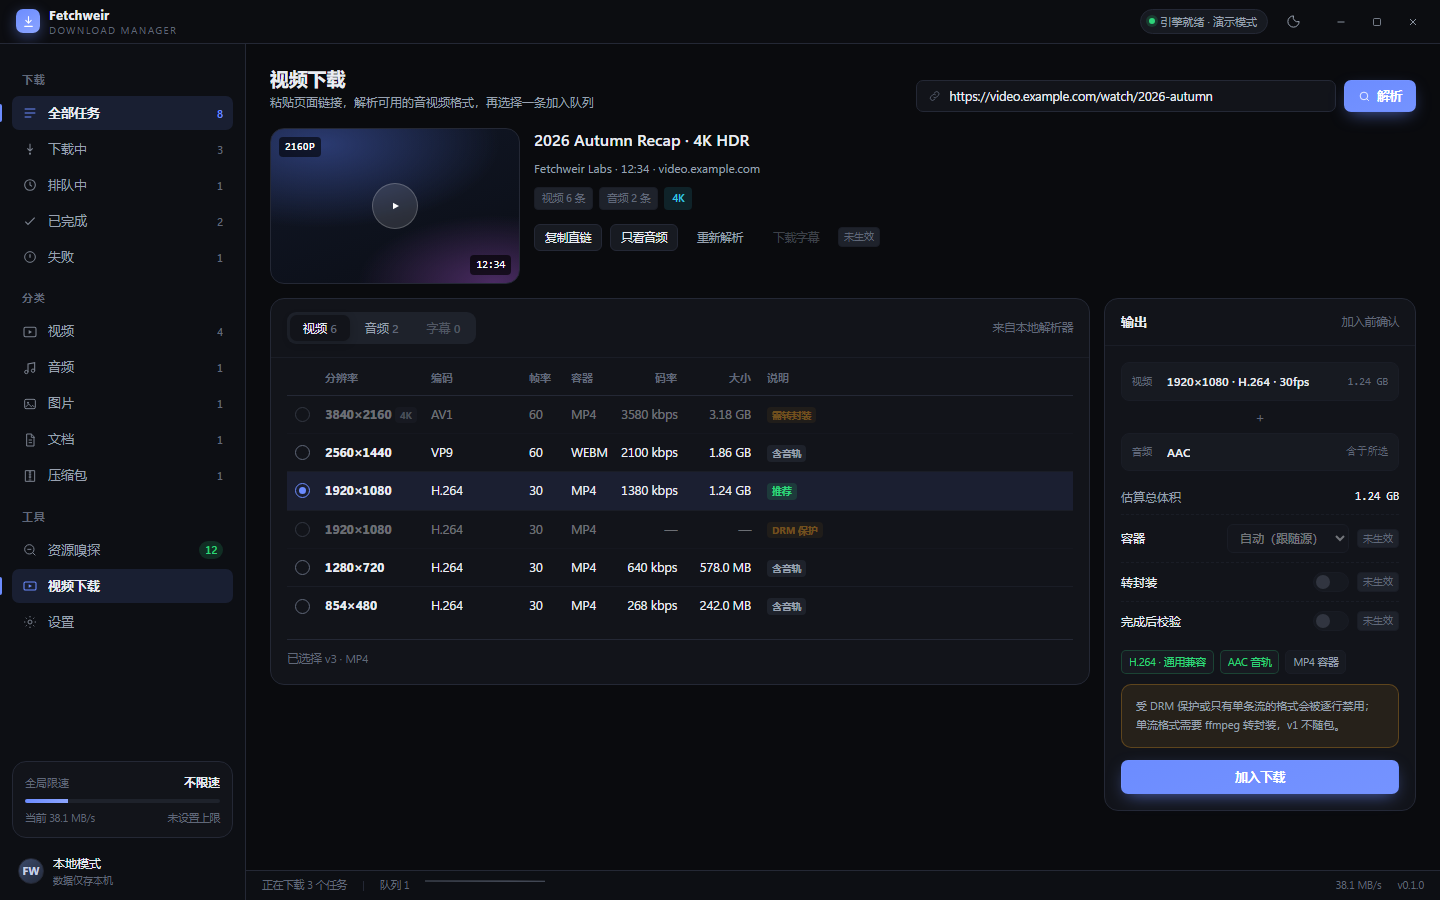
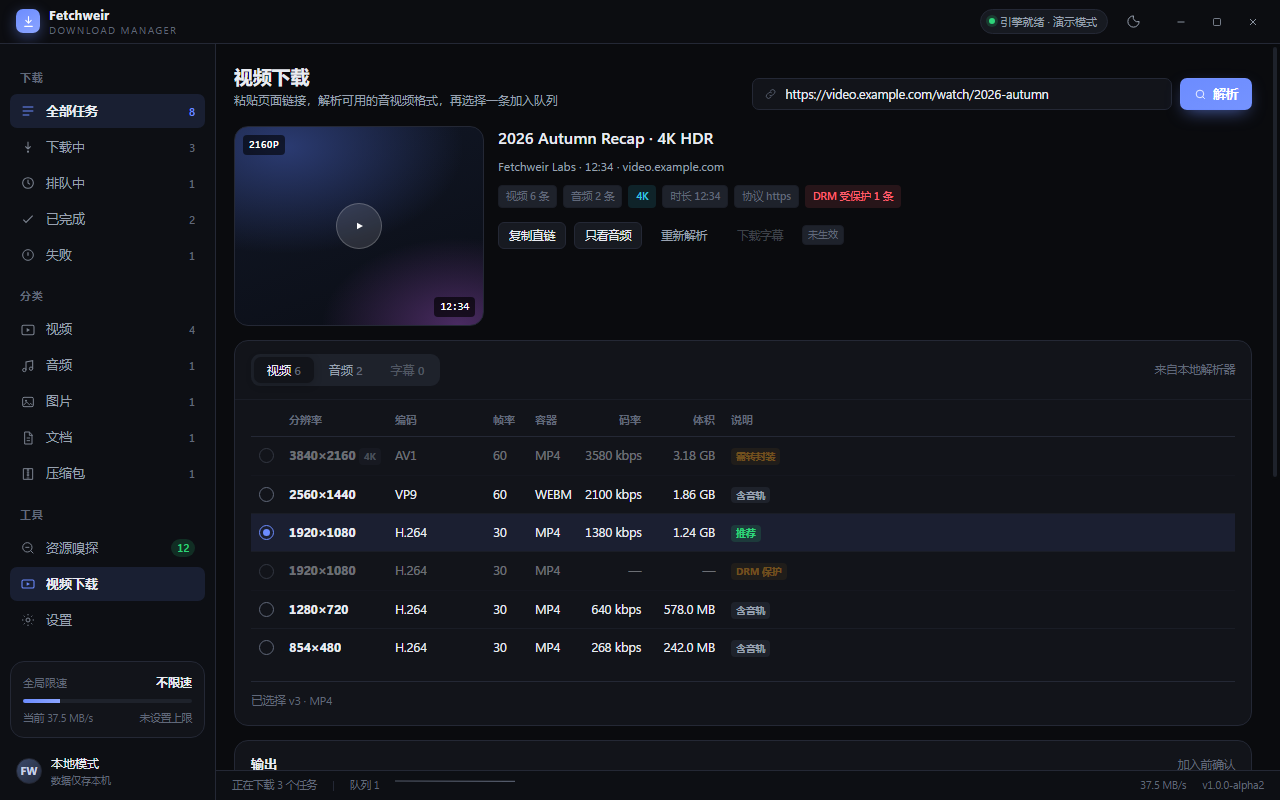
feat(ui): 逐屏对照设计稿并去掉详情页伪造的分连接数据
- 新增 tools/Shoot-FwMockup.mjs，逐视图导出设计稿截图，并生成 6 张并排对照图
- 视频页：表头改为「体积」，补时长/协议/DRM chips
- 嗅探页：补「隐藏疑似重复」筛选（按命中次数真实过滤）
- 详情页：分段图按总进度填充，连接速率不再按平均值编造，校验如实标注未启用
- 新增 docs/界面还原对照.md，逐屏列差异与未接通控件

diff --git a/src/app.js b/src/app.js
@@ -63,6 +63,7 @@
     sniffSel: new Set(),
     sniffNm: null,
     sniffChip: 'all',
+    sniffHideDup: false,
     video: { info: null, tab: 'video', sel: null, job: null, url: '' },
     themePref: 'dark',
     speedHistory: [],
@@ -795,39 +796,39 @@
     $('heroMax').textContent = `上限 ${settings.maxConnections || 16} 条`;
     $('segMeta').textContent = `${t.supportsRanges ? (t.connections || 1) + ' 段' : '单连接'} · 分块 512 KB`;
 
-    /* 分段图 */
+    /* 分段图：16 列按任务总进度依次填满，不伪造每段独立百分比 */
     const segBox = $('segmap');
     segBox.textContent = '';
-    const base = t.state === 'completed' ? 1 : t.state === 'queued' ? 0 : pct / 100;
+    const total = t.state === 'completed' ? 1 : t.state === 'queued' ? 0 : pct / 100;
     for (let s = 0; s < 16; s++) {
       const col = el('div', 'seg');
-      const frac = t.state === 'completed' ? 1 : Math.max(0, Math.min(1, base - s * 0.012));
+      const frac = Math.max(0, Math.min(1, total * 16 - s));
       const filled = Math.floor(frac * 6);
       for (let i = 0; i < 6; i++) {
         const cell = el('i');
         if (i < filled) cell.className = 'f';
-        else if (i === filled && t.state === 'active' && s < 12) cell.className = 'a';
+        else if (i === filled && t.state === 'active' && frac > 0) cell.className = 'a';
         col.append(cell);
       }
       segBox.append(col);
     }
 
-    /* 连接明细 */
+    /* 连接明细：后端只上报任务总速率，这里不做分连接速率与进度造假 */
     const connBody = $('connBody');
     connBody.textContent = '';
     if (t.state === 'active') {
       const n = Math.max(1, Math.min(16, t.connections || 1));
-      const per = t.speedBps / n;
       for (let i = 0; i < n; i++) {
         const row = el('div', 'conn-row');
         row.append(el('span', 'id', '#' + String(i + 1).padStart(2, '0')));
         const bar = el('div', 'bar');
         const fill = el('i');
-        fill.style.width = Math.max(2, Math.round(pct) - (i % 4) * 3) + '%';
+        fill.style.width = Math.round(pct) + '%';
         bar.append(fill);
-        row.append(bar, el('span', 'sp', (per / MB).toFixed(1) + ' MB/s'));
+        row.append(bar, el('span', 'sp', '—'));
         connBody.append(row);
       }
+      connBody.append(el('div', 'dim', '分连接速率与进度未上报，条形只表示任务总进度。'));
       $('connMeta').textContent = `${n} / ${settings.maxConnections || 16}`;
     } else {
       $('connMeta').textContent = t.state === 'completed' ? '已全部释放' : t.state === 'paused' ? '已释放' : t.state === 'failed' ? '已关闭' : '未建立';
@@ -1247,6 +1248,13 @@
     chips.append(el('span', 'tag', `视频 ${videoFmts.length} 条`));
     chips.append(el('span', 'tag', `音频 ${info.formats.filter((f) => !isVideoFmt(f)).length} 条`));
     if (maxH >= 2160) chips.append(el('span', 'tag hls', '4K'));
+    // 时长 / 协议 / DRM 都是解析器真实返回的字段，不在这里编造。
+    if (info.duration) chips.append(el('span', 'tag', `时长 ${fmtDuration(info.duration)}`));
+    const protos = [...new Set(info.formats.map((f) => f.protocol).filter(Boolean))];
+    if (protos.length) chips.append(el('span', 'tag', `协议 ${protos.slice(0, 3).join('/')}`));
+    const drmCount = info.formats.filter((f) => f.drm).length;
+    if (drmCount) chips.append(el('span', 'tag protected', `DRM 受保护 ${drmCount} 条`));
+    else if (info.formats.length) chips.append(el('span', 'tag ok', '无 DRM'));
     if (info.drmOnly) chips.append(el('span', 'tag protected', '仅 DRM 流'));
     if (info.message) chips.append(el('span', 'tag dup', '解析提示'));
 
@@ -1570,6 +1578,7 @@
     const domain = $('sniffDomain').value || '';
     const filtered = all.filter((item) => {
       if (state.sniffChip !== 'all' && bucketOf(item) !== state.sniffChip) return false;
+      if (state.sniffHideDup && (item.hits || 0) > 1) return false;
       if (minSize && (item.size || 0) < minSize) return false;
       if (domain && sniffHost(item) !== domain) return false;
       if (kw) {
@@ -2266,6 +2275,12 @@
     on('sniffKw', 'input', () => renderSniff());
     on('sniffMinSize', 'change', () => renderSniff());
     on('sniffDomain', 'change', () => renderSniff());
+    on('sniffHideDup', 'click', () => {
+      state.sniffHideDup = !state.sniffHideDup;
+      $('sniffHideDup').classList.toggle('on', state.sniffHideDup);
+      $('sniffHideDup').setAttribute('aria-pressed', String(state.sniffHideDup));
+      renderSniff();
+    });
     on('sniffTier', 'change', () => setTier($('sniffTier').value));
     on('btnSniffRefresh', 'click', async () => {
       await refreshSniff(true);

diff --git a/src/index.html b/src/index.html
@@ -383,7 +383,7 @@
                     <th>帧率</th>
                     <th>容器</th>
                     <th class="r">码率</th>
-                    <th class="r">大小</th>
+                    <th class="r">体积</th>
                     <th>说明</th>
                   </tr>
                 </thead>
@@ -491,6 +491,7 @@
           <select class="mini-select" id="sniffDomain" title="按域名筛选">
             <option value="">全部域名</option>
           </select>
+          <button class="chip" id="sniffHideDup" aria-pressed="false" title="隐藏命中次数大于 1 的疑似重复资源">隐藏疑似重复</button>
         </div>
 
         <div id="sniffGroups"></div>

diff --git a/docs/界面还原对照.md b/docs/界面还原对照.md
@@ -1,0 +1,80 @@
+# 界面还原对照（v1 设计稿 ⇄ 实现）
+
+基准：`docs/ui-mockup-v1.html`（唯一设计基准）。实现：`src/index.html` + `src/styles.css` + `src/app.js`。
+所有实现截图来自演示数据（`?demo`），不连后端；设计稿截图由 `tools/Shoot-FwMockup.mjs`
+在同一无头 Chromium 里逐视图导出，两边同引擎、同窗口尺寸，可直接并排比对。
+
+| 屏 | 设计稿 | 实现 | 并排对照 |
+| --- | --- | --- | --- |
+| 主界面 1280×800 | [mockup-main](ui-shots/mockup-main.png) | [app-main](ui-shots/app-main.png) | [compare-main](ui-shots/compare-main.png) |
+| 任务详情弹窗 | [mockup-detail](ui-shots/mockup-detail.png) | [app-detail](ui-shots/app-detail.png) | [compare-detail](ui-shots/compare-detail.png) |
+| 视频格式页 | [mockup-video](ui-shots/mockup-video.png) | [app-video](ui-shots/app-video.png) | [compare-video](ui-shots/compare-video.png) |
+| 资源嗅探页 | [mockup-sniff](ui-shots/mockup-sniff.png) | [app-sniff](ui-shots/app-sniff.png) | [compare-sniff](ui-shots/compare-sniff.png) |
+| 设置页 | [mockup-settings](ui-shots/mockup-settings.png) | [app-settings](ui-shots/app-settings.png) | [compare-settings](ui-shots/compare-settings.png) |
+| 最小档 900×620 | [mockup-min](ui-shots/mockup-min.png) | [app-min](ui-shots/app-min.png) | [compare-min](ui-shots/compare-min.png) |
+
+## 主界面
+
+已对齐：标题栏（品牌、引擎状态、主题、窗口按钮）、侧栏分组与计数、四张统计卡 2×2、筛选 chip、
+任务表（名称/大小/速度/状态/操作，含进度条与分段信息）、底部状态栏、900×620 下侧栏收成图标列与统计卡 2×2。
+
+差异（如实）：
+
+1. 设计稿标题栏有通知铃铛，实现里没有：当前没有通知中心/消息源，按「不放假控件」的要求直接不画。
+2. 设计稿第 4 张统计卡是「引擎内存」，实现是「排队任务」：引擎没有上报进程内存，排队数是从队列真实读出的。
+3. 演示数据的默认排序是「添加时间倒序」，所以首屏第一条是最近加入的排队任务；设计稿首屏是三个进行中任务。
+   这是演示数据时间戳差异，不是排序逻辑缺失（表头排序可切换）。
+4. 设计稿底部是预览工具条（视口/自适应），不属于产品界面；实现底部是真实状态栏（任务数、队列、总速率、版本）。
+
+## 任务详情弹窗
+
+已对齐：顶部速率/已下载/总大小/剩余时间四块、分段进度图、连接明细、引擎与写盘两组键值、操作按钮。
+
+差异：
+
+1. **连接明细的分连接速率改为「—」**。后端只上报任务总速率，没有分连接数据；此前按平均值铺 8 行属于编造，
+   现在条形只表示任务总进度，并在行尾加说明「分连接速率与进度未上报」。
+2. **分段进度图改为按总进度依次填满 16 列**，不再用「每列递减 1.2%」的假分布。
+3. **校验行显示「未启用（后端无摘要接口）」**：下载完成没有做内容摘要，不写成「校验通过」。
+4. 设计稿连接明细 5 行、引擎与写盘 8 行；实现按真实连接数（最多 16）与真实存在的键值渲染，行数随任务变化。
+
+## 视频格式页
+
+已对齐：左海报 + 右信息区、标题/域名/时长、chips、操作按钮组、格式表（分辨率/编码/帧率/容器/码率/体积/说明）、
+视频/音频分页、DRM 行禁用并标「DRM 保护」、底部「加入队列」与输出目录。
+
+差异：
+
+1. 设计稿海报是真实缩略图；实现优先用解析器返回的 `thumbnail` 字段，没有时退化为渐变占位（演示数据无缩略图）。
+2. 「下载字幕」保持禁用并标「未生效」：解析器（yt-dlp `-J`）当前不返回字幕轨清单。
+3. 设计稿 chips 含「无 DRM / 字幕 12 种」；实现的「无 DRM / 协议 / 时长」来自解析器真实字段，字幕条数不展示。
+4. 表头「体积」已按设计稿改名（原来是「大小」）。
+
+## 资源嗅探页
+
+已对齐：标签页信息卡、类型 chip 计数、体积/域名筛选、分组列表（流媒体/视频）、行内类型徽标与体积、
+全选本组、底部批量条、加入下载。
+
+差异：
+
+1. 设计稿是「扩展在线 · 抓取 214 个请求」一行说明；实现是宿主状态卡（Native Messaging 端口、档位、最近抓取数）。
+2. 设计稿有关键词/扩展名输入与「隐藏疑似」开关；实现的关键词在页头（文件名/域名），并已补「隐藏疑似重复」开关
+   （按命中次数 > 1 过滤，真实生效）。
+3. 设计稿行首是分辨率徽标（1080P/720P），实现是协议徽标（HLS/M3U8/MP4）；分辨率在视频页展示。
+
+## 设置页
+
+已对齐：左侧分区导航（常规/外观/下载引擎/网络/嗅探/视频解析/隐私与合规）、右侧分区卡片、
+每行「标题 + 说明 + 右侧控件」、已自动保存提示、重置入口。
+
+差异 / 设计稿之外新增：
+
+1. 常规卡片新增「安装范围」只读行与「始终以管理员身份运行」开关（本轮新需求，设计稿没有）。
+2. 提权开启时展示 UIPI 提示条（拖放被拦截，建议粘贴链接或走扩展）。
+3. 设计稿右上角「导出配置」未实现：当前没有导出命令，故不放按钮（不造假控件）。
+
+## 未接通控件清单（全部禁用并标注）
+
+- 视频格式页：下载字幕、字幕分页、解析器独立更新检查。
+- 设置页：无导出配置按钮。
+- 顶部通知图标：不渲染。
